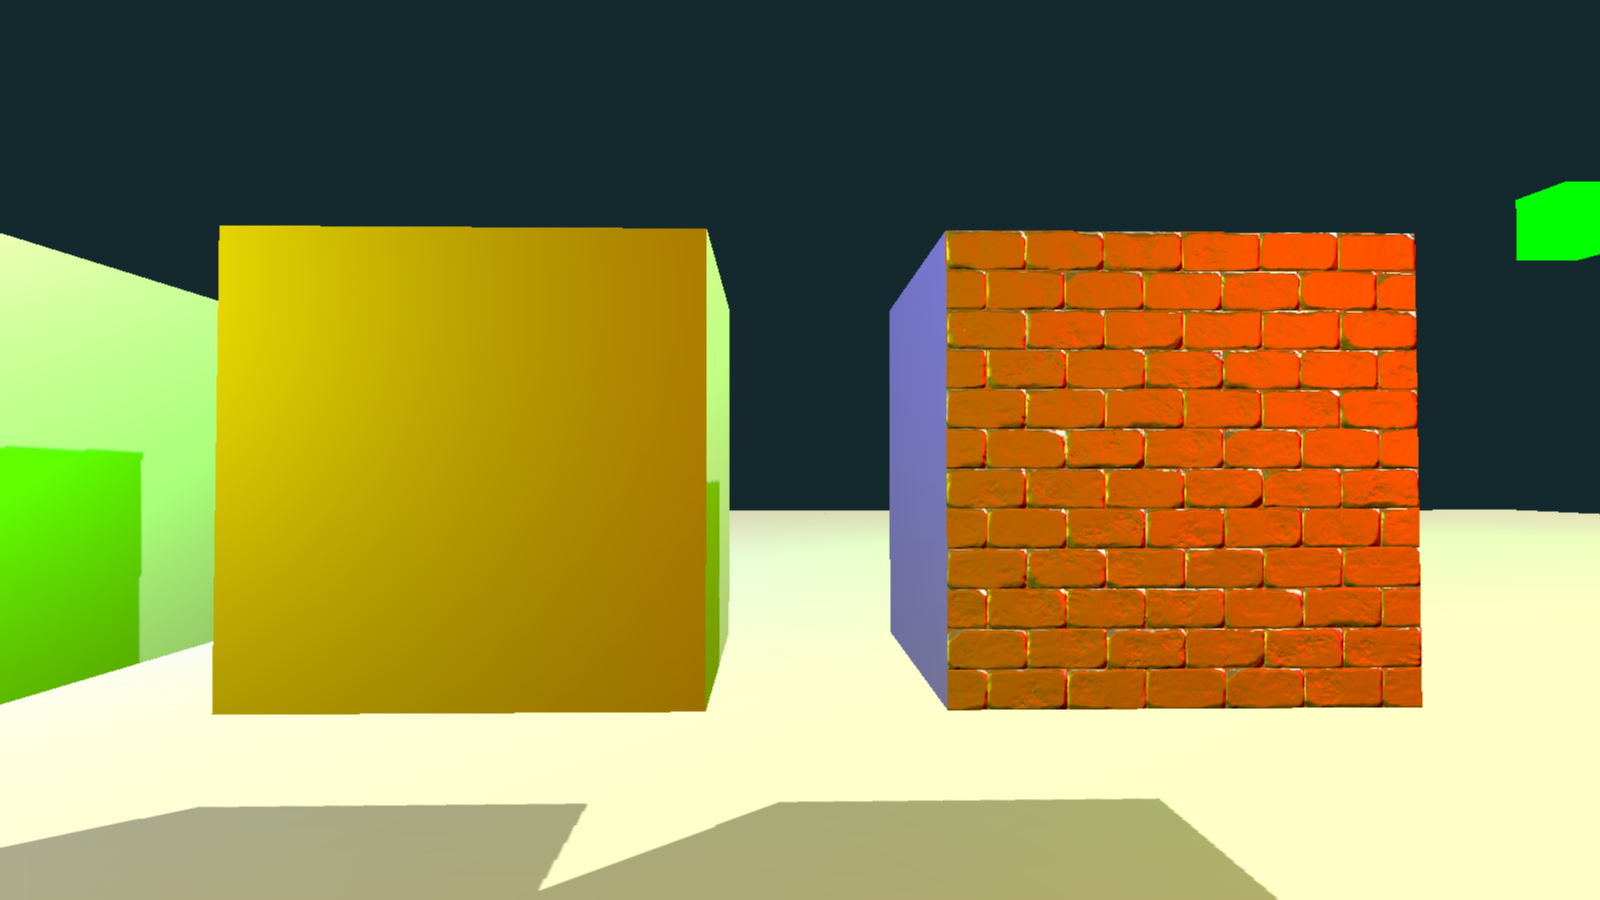
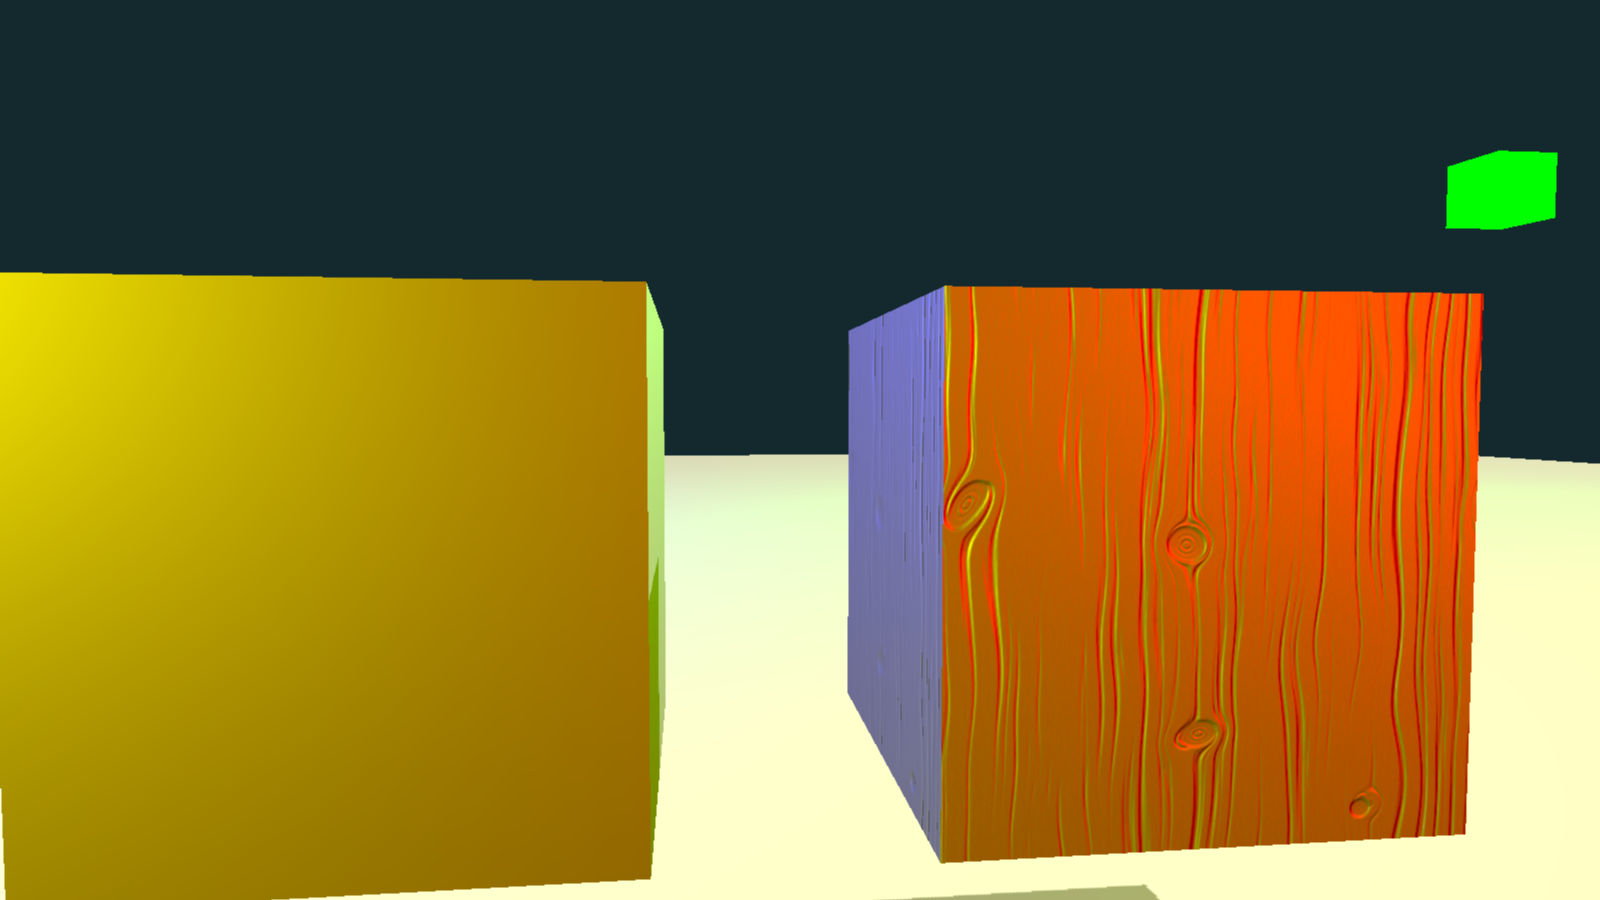
reset

diff --git a/tools/rgb_to_l.py b/tools/rgb_to_l.py
@@ -1,0 +1,85 @@
+
+from PIL import Image
+import numpy as np
+import argparse
+
+# Simple command line app to remove the A channel from RGBA
+
+modes = {
+    1: "1-bit pixels, black and white, stored with one pixel per byte",
+    "L": "8-bit pixels, grayscale",
+    "P": "8-bit pixels, mapped to any other mode using a color palette",
+    "RGB": "3x8-bit pixels, true color",
+    "RGBA": "4x8-bit pixels, true color with transparency mask",
+    "CMYK": "4x8-bit pixels, color separation",
+    "YCbCr": "3x8-bit pixels, color video format",
+    "LAB": "3x8-bit pixels, the L*a*b color space",
+    "HSV": "3x8-bit pixels, Hue, Saturation, Value color space",
+    "I": "32-bit signed integer pixels",
+    "F": "32-bit floating point pixels"
+}
+
+
+def convert_dx_to_gl_normal_map(input_path, output_path):
+    try:
+        in_image = Image.open(input_path)
+
+        print(f"image        : {in_image.filename}")
+        print(f"mode         : {in_image.mode}")
+        print(f"as           : {modes[in_image.mode]}")
+        print(f"format       : {in_image.format}")
+        print(f"size         : {in_image.size}")
+        print(f"width        : {in_image.width}")
+        print(f"height       : {in_image.height}")
+        print(f"bands        : {in_image.getbands()}")
+        print(f"palette      : {in_image.palette}")
+        print(f"info         : {in_image.info}")
+        print(f"transparency : {in_image.has_transparency_data}")
+
+        if output_path == None:
+            print("no output file, done")
+            return
+
+        if in_image.mode != 'RGB':
+            raise ValueError(f"input image must be in RGB format, is: {in_image.mode}")
+    except Exception as e:
+        print(f"error loading image: {e}")
+        return
+
+    # Convert image to numpy array
+    image_array = np.array(in_image.convert('L'), dtype=np.uint8)
+
+    # Convert back to PIL image without A channel
+    converted_image = Image.fromarray(image_array, mode='L')
+
+    # Save the converted image
+    try:
+        converted_image.save(output_path, 'PNG')
+        print(f"converted image saved to {output_path}")
+    except Exception as e:
+        print(f"error saving image: {e}")
+
+
+def main():
+    # Set up command-line argument parser
+    parser = argparse.ArgumentParser(description="Invert the green channel of a normal map.")
+    parser.add_argument("--input", help="Path to the input image.")
+    parser.add_argument("--output", help="Path to save the output image.")
+
+    # Parse arguments
+    args = parser.parse_args()
+
+    # Default
+    input_path = "../textures/brick_bump_dx.png"
+    output_path = None
+    if args.input:
+        input_path = args.input
+    if args.output:
+        output_path = args.output
+
+    # Call conversion function with provided arguments
+    convert_dx_to_gl_normal_map(input_path, output_path)
+
+
+if __name__ == "__main__":
+    main()

diff --git a/py_2.c_displacement_maps/core.py b/py_2.c_displacement_maps/core.py
@@ -737,12 +737,12 @@ class Scene():
         self.objects.append(Cube(app, position=(-_g*2, 0, 0), texture="toy_box", roughness=0.5, metallic=0.7))
         self.objects.append(Cube(app, position=(-_g, 0, 0), texture="toy_box", roughness=0.5, metallic=0.7, bump="toy_box_bump_gl"))
         self.objects.append(Cube(app, position=(0, 0, 0), texture="toy_box", roughness=0.5, metallic=0.7, bump="toy_box_bump_gl",
-                                 parallax="toy_box_disp_depth", parallax_scale=0.15))
+                                 parallax="toy_box_disp_depth_rgb", parallax_scale=0.15))
 
-        self.objects.append(Cube(app, position=(_g, 0, 0), texture="brick", roughness=0.5, metallic=0.7))
-        self.objects.append(Cube(app, position=(_g*2, 0, 0), texture="brick", roughness=0.6, metallic=0.6, bump="brick_bump2_gl"))
-        self.objects.append(Cube(app, position=(_g*3, 0, 0), texture="brick", roughness=0.6, metallic=0.6, bump="brick_bump2_gl",
-                                 parallax="brick_disp_depth", parallax_scale=0.06))
+        self.objects.append(Cube(app, position=(_g, 0, 0), texture="wood", roughness=0.5, metallic=0.7))
+        self.objects.append(Cube(app, position=(_g*2, 0, 0), texture="wood", roughness=0.6, metallic=0.6, bump="wood_bump_gl"))
+        self.objects.append(Cube(app, position=(_g*3, 0, 0), texture="wood", roughness=0.6, metallic=0.6, bump="wood_bump_gl",
+                                 parallax="wood_disp_depth_rgb", parallax_scale=0.05))
 
         # Debug lights
         self.light_source_global = LightSource(app, light_source=self.app.global_light)

diff --git a/py_2.b_bump_maps/core.py b/py_2.b_bump_maps/core.py
@@ -723,8 +723,8 @@ class Scene():
         _g = 1.5
         self.objects.append(Cube(app, position=(-_g*2, 0, 0), texture="toy_box", roughness=0.5, metallic=0.7))
         self.objects.append(Cube(app, position=(-_g, 0, 0), texture="toy_box", roughness=0.5, metallic=0.7, bump="toy_box_bump_gl"))
-        self.objects.append(Cube(app, position=(0, 0, 0), texture="brick", roughness=0.6, metallic=0.6))
-        self.objects.append(Cube(app, position=(_g, 0, 0), texture="brick", roughness=0.6, metallic=0.6, bump="brick_bump_gl"))
+        self.objects.append(Cube(app, position=(0, 0, 0), texture="wood", roughness=0.6, metallic=0.6))
+        self.objects.append(Cube(app, position=(_g, 0, 0), texture="wood", roughness=0.6, metallic=0.6, bump="wood_bump_gl"))
 
         # Debug lights
         self.light_source_global = LightSource(app, light_source=self.app.global_light)

diff --git a/README.md b/README.md
@@ -200,7 +200,7 @@ This is a super handy way of computing the tangent and bi-tangent and ship them 
 A note on normal map formats since there are two different ones: the DirectX and OpenGL formats. In the textures folder I have an example of each in the `brick_bump.dx.png` and `brick_bump.gl.png` images, for example.
 
 ![Screenshots](./screenshots/dx_gl_normals.png)
-_Top of the partition: the DX format for normals, bottom is GL format. You can tell the difference by where the light green hues are. In my opinion the GL format is more intuitive._
+_Top of the partition: the DX format for normals, bottom is GL format. You can tell the difference by where the light green hues are._
 
 In the `/tools/convert_dx_normal.py` script you can convert from DX to GL format with a simple python tool I wrote. It simply inverts the y-component (green channel) of the image.
 
@@ -219,27 +219,41 @@ Reading:
 
 Displacement mapping can apply even more detail compared to just bump mapping. The surfaces can be processing per frag to modify the texture coordinates taking into account the view vector from the camera and the fragment position.
 
+![Screenshots](./screenshots/mgl_disp_1.png)
+![Screenshots](./screenshots/mgl_disp_2.png)
+![Screenshots](./screenshots/mgl_disp_5.png)
+_Top: The left has the flat surface for the toy box, then the bump mapped one, and to the right is with both parallax and bump mapping. Middle: Textures disabled, just illumination. Bottom: At a sharp angle the render of the parallax mapping looks impressive even with a deep displacement._
+
 From the guides out there, you can see a progression from parallax displacement, to steep parallax displacement, and then to parallax occlusion displacement. Each advancement makes the result look better.
 
 In modern development more advanced searching is performed to improve the step noise from the linear search used in the classic parallax occlusion displacement method.
 
-![Screenshots](./screenshots/mgl_disp_1.png)
-![Screenshots](./screenshots/mgl_disp_2.png)
 ![Screenshots](./screenshots/mgl_disp_3.png)
-_Top: At a sharp angle the render of the parallax mapping looks impressive even with a deep displacement. Middle: It combines nicely with the illumination and shadow casting, however not without artifacts and stepping. Bottom: The left has the flat surface, then the bump mapped one, and to the right is with both parallax and bump mapping with textures off and just illumination on._
+![Screenshots](./screenshots/mgl_disp_4.png)
+![Screenshots](./screenshots/mgl_disp_6.png)
+_Top: Raw wood example. Middle: Textures disabled. Bottom: At a sharp angle._
 
-<!-- A note on normal map formats since there are two different ones: the depth and the height ones.
+A note on normal map formats since there are several different ones.
+
+![Screenshots](./screenshots/depth_height.png)
+_Depth displacement shown towards black in the top example. Inverted is showing white as the deep areas. Be careful which you have. You may also have a file created with both depth and height imbedded into the design._
 
 In the `/tools/invert_displacement.py` script you can invert the height component of the image, since some sources will have height as depths and causes more math in the frag.
 
 A usage example from the tools folder is:
+
 ```BAT
 pip install Pillow numpy
-python invert_displacement.py --input ../textures/stone_brick_wall_disp.png --output ../textures/stone_brick_wall_disp.png
-``` -->
+python invert_displacement.py --input ../textures/wood_disp_depth.png --output ../textures/wood_disp_height.png
+```
+
+Note that online is a minefield when it comes to displacement maps. Some will be in RGB, useless since the information is only stored in one 8 bit channel. Some will provide you a 16 bit single channel image, this will probably contain depth and height, with grey midpoint being flat. You will need to adjust your frag accordingly.
+
+I'm sticking with the principles that it is depth information only, where white is equal to the flat surface. this gives a full range contained in an a 8 bit channel.
 
 Reading:
 
+- OpenGL Tutorial with a great write up on parallax occlusion mapping and pit-falls of auto generation of displacement maps <https://www.opengl-tutorial.org/intermediate-tutorials/tutorial-13-normal-mapping/>.
 - ATI pdf from a talk on parallax occlusion mapping <https://web.engr.oregonstate.edu/~mjb/cs557/Projects/Papers/Parallax_Occlusion_Mapping.pdf>.
 - ATI paper on parallax occlusion mapping <https://www.realtimerendering.com/advances/s2006/Chapter5-Parallax_Occlusion_Mapping_for_detailed_surface_rendering.pdf>.
 - Siggraph 2015 on dynamic occlusion with signed distance fields (ray march) <https://www.advances.realtimerendering.com/s2015/DynamicOcclusionWithSignedDistanceFields.pdf>.
